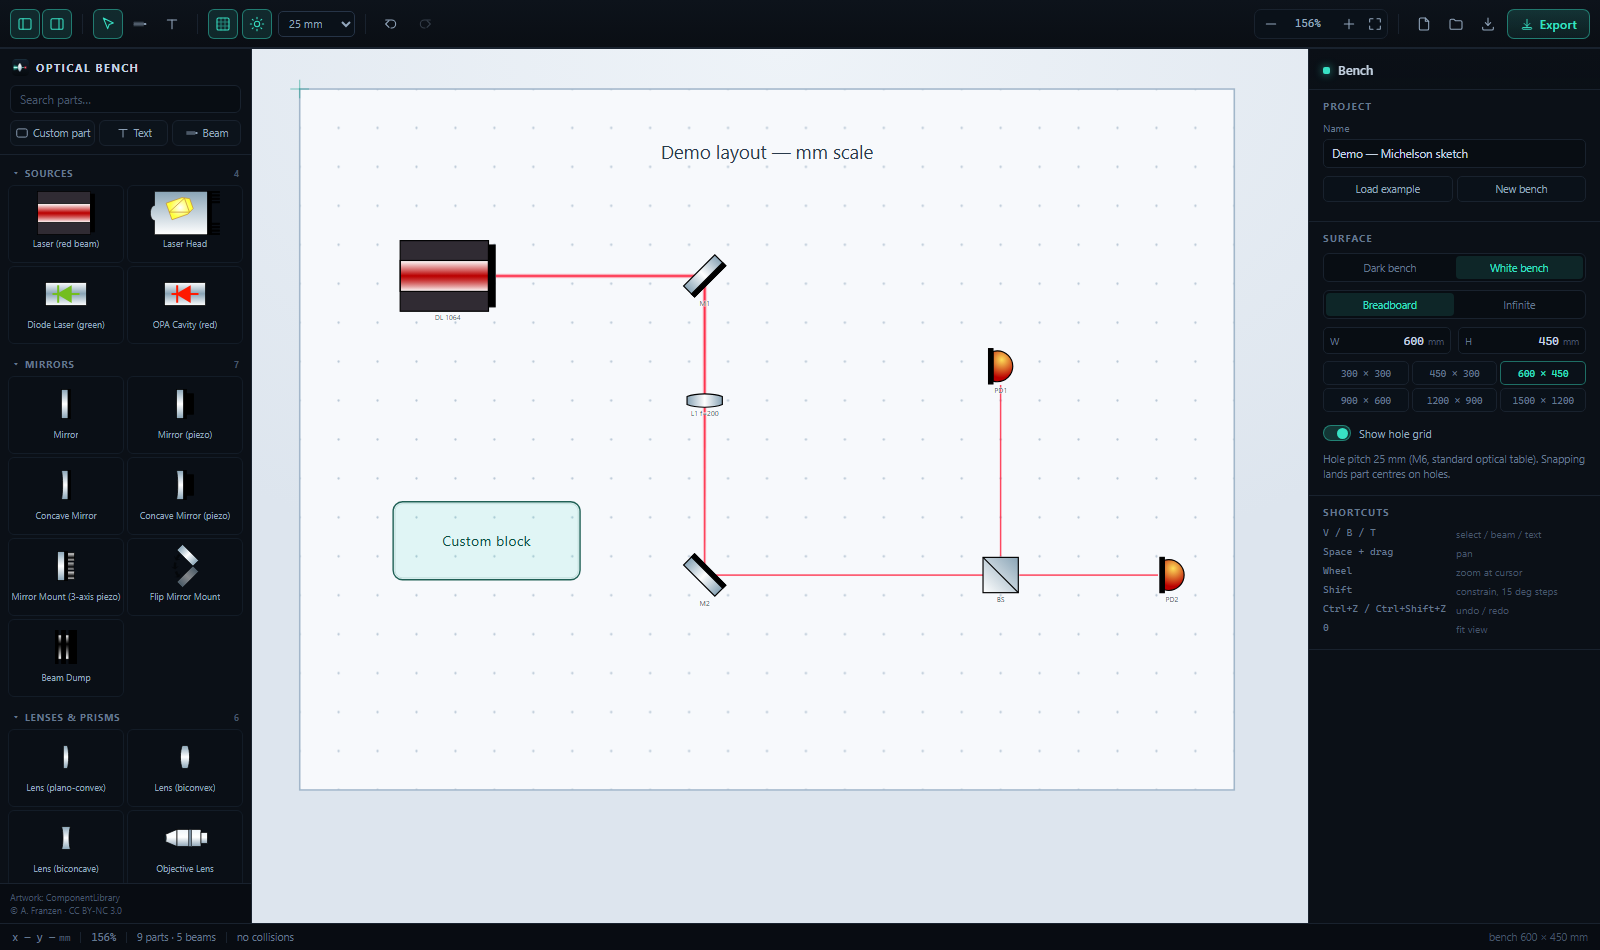
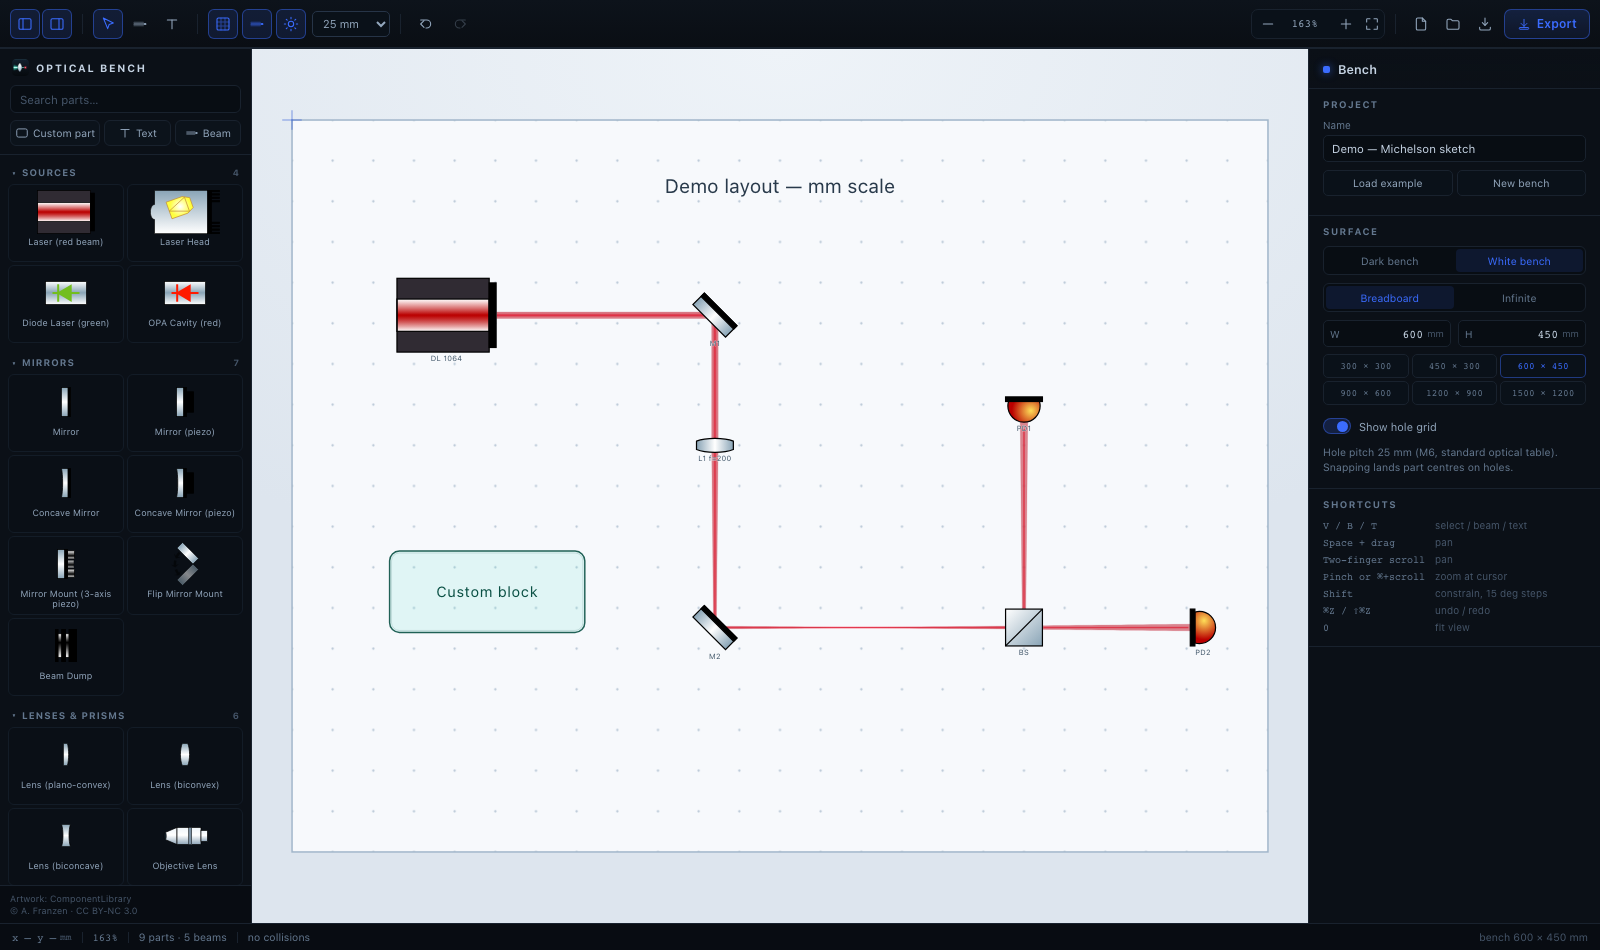
feat: v1.3.4 UI 强调色由青绿改为深蓝

diff --git a/src/components/Stage.tsx b/src/components/Stage.tsx
@@ -19,7 +19,7 @@ import {
   type Frame,
   type Pt,
 } from '../lib/geom';
-import { THEMES } from '../lib/theme';
+import { THEMES, UI_ACCENT } from '../lib/theme';
 import { useConflictIds } from '../lib/conflicts';
 import { AutoBeams } from './AutoBeams';
 import { IS_MAC } from '../lib/platform';
@@ -101,7 +101,7 @@ const ItemView = React.memo(function ItemView({
           height={f.h}
           transform={`rotate(${f.rot} ${f.cx} ${f.cy})`}
           fill="none"
-          stroke="#38e1c4"
+          stroke={UI_ACCENT}
           strokeWidth={1.4 * sw}
           data-ui="1"
           style={{ pointerEvents: 'none' }}
@@ -389,7 +389,7 @@ const BeamView = React.memo(function BeamView({
           y1={beam.y1}
           x2={beam.x2}
           y2={beam.y2}
-          stroke="#38e1c4"
+          stroke={UI_ACCENT}
           strokeWidth={1 / zoom}
           strokeDasharray={`${5 / zoom} ${4 / zoom}`}
           data-ui="1"
@@ -416,7 +416,7 @@ function BeamHandles({ beam, zoom }: { beam: Beam; zoom: number }) {
               width={8 / zoom}
               height={8 / zoom}
               fill="#0b1118"
-              stroke="#38e1c4"
+              stroke={UI_ACCENT}
               strokeWidth={1.4 / zoom}
               style={{ cursor: 'crosshair' }}
             />
@@ -1134,9 +1134,9 @@ export function Stage({ svgRef }: { svgRef: React.RefObject<SVGSVGElement | null
               y={Math.min(marquee.a.y, marquee.b.y)}
               width={Math.abs(marquee.a.x - marquee.b.x)}
               height={Math.abs(marquee.a.y - marquee.b.y)}
-              fill="#38e1c4"
+              fill={UI_ACCENT}
               fillOpacity={0.07}
-              stroke="#38e1c4"
+              stroke={UI_ACCENT}
               strokeWidth={1 * sw}
               strokeDasharray={`${4 * sw} ${4 * sw}`}
               style={{ pointerEvents: 'none' }}
@@ -1150,18 +1150,18 @@ export function Stage({ svgRef }: { svgRef: React.RefObject<SVGSVGElement | null
                 y1={draft.a.y}
                 x2={draft.b.x}
                 y2={draft.b.y}
-                stroke="#38e1c4"
+                stroke={UI_ACCENT}
                 strokeWidth={3}
                 strokeOpacity={0.5}
                 strokeDasharray={`${6 / zoom} ${5 / zoom}`}
               />
-              <circle cx={draft.a.x} cy={draft.a.y} r={3 / zoom} fill="#38e1c4" />
+              <circle cx={draft.a.x} cy={draft.a.y} r={3 / zoom} fill={UI_ACCENT} />
               <text
                 x={(draft.a.x + draft.b.x) / 2}
                 y={(draft.a.y + draft.b.y) / 2 - 6 / zoom}
                 textAnchor="middle"
                 fontSize={11 / zoom}
-                fill="#38e1c4"
+                fill={UI_ACCENT}
                 fontFamily={FONT_STACK}
               >
                 {Math.round(Math.hypot(draft.b.x - draft.a.x, draft.b.y - draft.a.y))} mm
@@ -1212,7 +1212,7 @@ function ItemHandles({ item, zoom }: { item: Exclude<Item, TextItem>; zoom: numb
             height={s * 2}
             rx={s * 0.35}
             fill="#0b1118"
-            stroke="#38e1c4"
+            stroke={UI_ACCENT}
             strokeWidth={1.4 / zoom}
             style={{ cursor: `${c.key}-resize` }}
           />
@@ -1222,7 +1222,7 @@ function ItemHandles({ item, zoom }: { item: Exclude<Item, TextItem>; zoom: numb
           y1={-f.h / 2}
           x2={0}
           y2={-f.h / 2 - rotArm}
-          stroke="#38e1c4"
+          stroke={UI_ACCENT}
           strokeWidth={1.2 / zoom}
           style={{ pointerEvents: 'none' }}
         />
@@ -1232,7 +1232,7 @@ function ItemHandles({ item, zoom }: { item: Exclude<Item, TextItem>; zoom: numb
           cy={-f.h / 2 - rotArm}
           r={s}
           fill="#0b1118"
-          stroke="#38e1c4"
+          stroke={UI_ACCENT}
           strokeWidth={1.4 / zoom}
           style={{ cursor: 'grab' }}
         />
@@ -1259,7 +1259,7 @@ function TextHandles({ item, zoom }: { item: TextItem; zoom: number }) {
             height={s * 2}
             rx={s * 0.35}
             fill="#0b1118"
-            stroke="#38e1c4"
+            stroke={UI_ACCENT}
             strokeWidth={1.4 / zoom}
             style={{ cursor: `${c.key}-resize` }}
           />
@@ -1269,7 +1269,7 @@ function TextHandles({ item, zoom }: { item: TextItem; zoom: number }) {
           y1={-f.h / 2}
           x2={0}
           y2={-f.h / 2 - rotArm}
-          stroke="#38e1c4"
+          stroke={UI_ACCENT}
           strokeWidth={1.2 / zoom}
           style={{ pointerEvents: 'none' }}
         />
@@ -1279,7 +1279,7 @@ function TextHandles({ item, zoom }: { item: TextItem; zoom: number }) {
           cy={-f.h / 2 - rotArm}
           r={s}
           fill="#0b1118"
-          stroke="#38e1c4"
+          stroke={UI_ACCENT}
           strokeWidth={1.4 / zoom}
           style={{ cursor: 'grab' }}
         />

diff --git a/src/styles.css b/src/styles.css
@@ -13,9 +13,9 @@
   --text-2: #93a7bd;
   --dim: #64788f;
   --dim-2: #46566a;
-  --accent: #38e1c4;
-  --accent-soft: rgba(56, 225, 196, 0.12);
-  --accent-line: rgba(56, 225, 196, 0.45);
+  --accent: #3b6cff;
+  --accent-soft: rgba(59, 108, 255, 0.12);
+  --accent-line: rgba(59, 108, 255, 0.45);
   --danger: #ff5b76;
   --danger-soft: rgba(255, 91, 118, 0.12);
   --radius: 7px;
@@ -211,7 +211,7 @@ select {
   gap: 6px;
   height: 30px;
   padding: 0 12px;
-  background: linear-gradient(180deg, rgba(56, 225, 196, 0.16), rgba(56, 225, 196, 0.08));
+  background: linear-gradient(180deg, rgba(59, 108, 255, 0.16), rgba(59, 108, 255, 0.08));
   border: 1px solid var(--accent-line);
   border-radius: 7px;
   color: var(--accent);
@@ -220,7 +220,7 @@ select {
   letter-spacing: 0.02em;
 }
 .btn-primary:hover {
-  background: rgba(56, 225, 196, 0.22);
+  background: rgba(59, 108, 255, 0.22);
 }
 
 .export-wrap {
@@ -626,7 +626,7 @@ select {
   height: 7px;
   border-radius: 2px;
   background: var(--accent);
-  box-shadow: 0 0 8px rgba(56, 225, 196, 0.7);
+  box-shadow: 0 0 8px rgba(59, 108, 255, 0.7);
 }
 .dot.beam {
   background: #ff5b76;
@@ -793,7 +793,7 @@ select {
   transition: transform 0.15s, background 0.15s;
 }
 .toggle.is-on .toggle-track {
-  background: rgba(56, 225, 196, 0.18);
+  background: rgba(59, 108, 255, 0.18);
   border-color: var(--accent-line);
 }
 .toggle.is-on .toggle-knob {

diff --git a/src/lib/theme.ts b/src/lib/theme.ts
@@ -1,5 +1,12 @@
 import type { Theme } from '../model/types';
 
+/**
+ * UI chrome accent: selection frames, handles, active tools, section labels.
+ * Keep this in sync with `--accent` in styles.css (SVG presentation attributes
+ * cannot read CSS variables reliably, so the canvas gets the literal value).
+ */
+export const UI_ACCENT = '#3b6cff';
+
 export interface ThemeColors {
   boardBg: string;
   boardBorder: string;
@@ -21,7 +28,7 @@ export const THEMES: Record<Theme, ThemeColors> = {
     boardEdge: '#3a5170',
     gridDot: '#2f4157',
     gridDotBoard: '#33475f',
-    origin: '#38e1c4',
+    origin: UI_ACCENT,
     label: '#8ea4bd',
     labelHalo: 'rgba(0,0,0,0.55)',
     pageBg: '#070a0f',
@@ -33,7 +40,7 @@ export const THEMES: Record<Theme, ThemeColors> = {
     boardEdge: '#9fb4c8',
     gridDot: '#c4d0dc',
     gridDotBoard: '#b7c6d5',
-    origin: '#0f9e8a',
+    origin: '#1d4ed8',
     label: '#3d5468',
     labelHalo: 'rgba(255,255,255,0.9)',
     pageBg: '#dfe6ee',

diff --git a/STATE.md b/STATE.md
@@ -7,8 +7,8 @@
 
 ## 当前阶段
 
-**v1.3.3 完成，没有正在开发的功能。** v1.3.3 只动了三件事：物镜改用工作距离、分束器 T/R 手动、
-自动光路下沉到器件图层下方。源码、双 README、MIT、CI、`.app`/`.dmg` 都在，已推到 GitHub
+**v1.3.4 完成，没有正在开发的功能。** v1.3.4 只把 UI 强调色从青绿换成深蓝；v1.3.3 做的是物镜工作距离、
+分束器 T/R 手动、自动光路下沉。源码、双 README、MIT、CI、`.app`/`.dmg` 都在，已推到 GitHub
 `origin/main`。本文件与 `LOG.md` 已入库，两台机器靠 git 同步。功能上暂不推进（见末尾）。
 
 ## 已定决策
@@ -36,14 +36,18 @@
   代价是穿过物镜筒身的那段光被筒身遮住（符合实际观感）。手绘光束同样在器件下方。
 - **分束比手动 T，不做偏振**。`split` = 透射比 T，反射 1−T；支路亮度按同一光源归一化
   （50/50 与旧外观一致，0/100 % 时另一支不画）。PBS 仍是几何分光，没有 Jones 向量。
+- **UI 强调色 = 深蓝 `#3b6cff`**（2026-11-20 用户定，原为青绿 `#38e1c4`）。画布 SVG 属性读不到 CSS 变量，
+  所以只在两处维护：`src/lib/theme.ts` 的 `UI_ACCENT` 与 `styles.css` 的 `--accent` / `--accent-soft` /
+  `--accent-line`，改色必须同步。浅色画布的原点十字线用 `#1d4ed8`。画布内容色（块色板、文字色板、
+  示例布局的块）不跟着变。
 - **Playwright 回归不进 CI**（要下载浏览器，每个 job 多几分钟）；CI 只做 `npm ci` → `typecheck` →
   `build`，macOS 与 Windows 各跑一遍，防止只在 Mac 开发时 Windows 线悄悄烂掉。
 
 ## 生效参数
 
-- 版本 `1.3.3`（build 10303），唯一来源 `package.json` ｜ ad-hoc 签名，arm64，最低 macOS 11
-- 产物：`build/Optical Bench.app` 952 KB（前端资源 448 KB）｜`build/Optical Bench 1.3.3.dmg` 732 KB
-- 冷启动到窗口可见 196 / 207 ms（v1.3.2 实测；v1.3.3 未重测，只改绘制与面板）｜常驻约 99 MB RSS
+- 版本 `1.3.4`（build 10304），唯一来源 `package.json` ｜ ad-hoc 签名，arm64，最低 macOS 11
+- 产物：`build/Optical Bench.app` 952 KB（前端资源 448 KB）｜`build/Optical Bench 1.3.4.dmg` 732 KB
+- 冷启动到窗口可见 196 / 207 ms（v1.3.2 实测；v1.3.3 / 1.3.4 未重测）｜常驻约 99 MB RSS
 - 回归测试 27（交互）+ 29（v1.1 功能）+ 35（光学引擎）= **91 项**（Chromium 与 WebKit 均通过）
 - 物镜默认 WD 15 mm；出射窗口相对转轴 +22.5 mm（48 mm 筒身的前端面）
 - 端口 5180（`scripts/serve.mjs` 与 `vite` 同端口）｜缩放 3 %–6000 %（1 px/mm = 100 %）
@@ -54,7 +58,7 @@
 - `src/store.ts` — zustand：工程、选择、视图、撤销快照栈
 - `src/lib/optics.ts` · `opticsMap.ts` · `spectrum.ts` — 光路追迹、器件→光学行为、波长配色（v1.3.2–1.3.3 核心）
 - `src/components/Stage.tsx` — 画布与全部指针交互；`Inspector.tsx` — 右侧属性面板
-- `src/lib/export.ts` · `native.ts` · `platform.ts` — 导出管线、原生桥、⌘/Ctrl 文案
+- `src/lib/theme.ts` — 画布配色与 `UI_ACCENT`；`export.ts` · `native.ts` · `platform.ts` — 导出管线、原生桥、⌘/Ctrl 文案
 - `macos/src/{main,NativeBridge,WebSchemeHandler}.swift` + `scripts/build-mac-app.sh` — 原生壳与打包
 - 文档：`docs/AUTO-BEAMS.md`（光路模型与限制）· `docs/PLATFORMS.md`（双平台、桥协议、发版）
   · `docs/MACOS-APP.md`（打包实测与版本记录）
@@ -83,7 +87,7 @@
    （Tauri 既然已跑通，继续走它可能比从零写 WebView2 壳划算，文档现在推荐 A 是当初只做纸面比较的结论）。
 2. Windows WebView2 原生壳（在 `windows/src/` 实现 `src/lib/native.ts` 的五个 op，
    补 `windows/build-win-app.ps1`，`.bat` 保留）——若不走 Tauri 则选这条。
-3. 首次发版（`git tag v1.3.3` + `gh release create`，注意 `gh` 尚未安装）。
+3. 首次发版（`git tag v1.3.4` + `gh release create`，注意 `gh` 尚未安装）。
 
 ## 坑（不要重复做）
 

diff --git a/LOG.md b/LOG.md
@@ -3,6 +3,22 @@
 只追加，不删改。最新的写在最上面。摘要性结论进 `STATE.md`，过程与理由留在这里。
 来源标注：`[会话]` = DSH 会话日志（本地，`~/.dsh/sessions/`）｜`[git]` = 提交｜`[文档]` = 仓库内 md｜`[文件]` = 文件 mtime。
 
+## 2026-11-20 v1.3.4：UI 强调色青绿 → 深蓝
+
+- 需求：用户喜欢深黑 + 青绿的界面风格，但要把绿色换成深蓝色。
+- 做法：强调色收敛到两处——`src/lib/theme.ts` 的 `UI_ACCENT = '#3b6cff'`（画布里的选中框、缩放手柄、
+  旋转手柄、框选、画线预览、原点十字线）和 `styles.css` 的 `--accent` / `--accent-soft` / `--accent-line`
+  （工具栏、面板分组标题、开关、Export 等 chrome）。CSS 里另有 4 处写死的 `rgba(56,225,196,…)`
+  （按钮渐变、hover、方点发光、toggle 轨道）一并换掉；浅色画布的原点用更深的 `#1d4ed8`。
+- 没动：画布内容色（块色板、文字色板、示例布局的青色块）——那是用户画的内容，不是界面色。
+  App 图标 / favicon 也还是青色光束，等用户决定要不要一起换。
+- 取舍：纯 navy（试过 `#1e40af`）在近黑底上对比不足、发灰；`#3b6cff` 是深宝蓝，小字号分组标题仍可读。
+  想再亮/再暗只改两处常量。
+- 文档：README 的深/浅两张截图按新配色重拍（1600×950、`?demo`）；MACOS-APP 版本记录与 AGENTS 的
+  「强调色两处同步」约定同步更新。
+- 测试：91 项在 Chromium 与 WebKit 各跑一遍全过，typecheck 通过。
+- 版本：1.3.4（build 10304）；`.app` 952 KB、`.dmg` 732 KB；冷启动未重测。
+
 ## 2026-11-20 v1.3.3：物镜工作距离、T/R 分束、光路下沉
 
 - 需求（用户要点）：版本升 v1.3.3；物镜加工作距离参数，准直入射时汇聚点在出射窗口外一个 WD；

diff --git a/AGENTS.md b/AGENTS.md
@@ -26,6 +26,8 @@
   + 在 `src/model/catalog.ts` 加一行名字/分类。
 - **中英 README 必须同步改**：`README.md` 与 `README.en.md` 一一对应。
 - **原生能力只经 `src/lib/native.ts`**（`window.__ob` 五条 op），浏览器里全部退化成 no-op。
+- **UI 强调色两处同步**：`src/lib/theme.ts` 的 `UI_ACCENT`（画布 SVG 属性）与 `styles.css` 的 `--accent` /
+  `--accent-soft` / `--accent-line`（chrome）。画布内容色（块/文字色板）不跟强调色走。
 
 ## 物理与坐标约定
 
